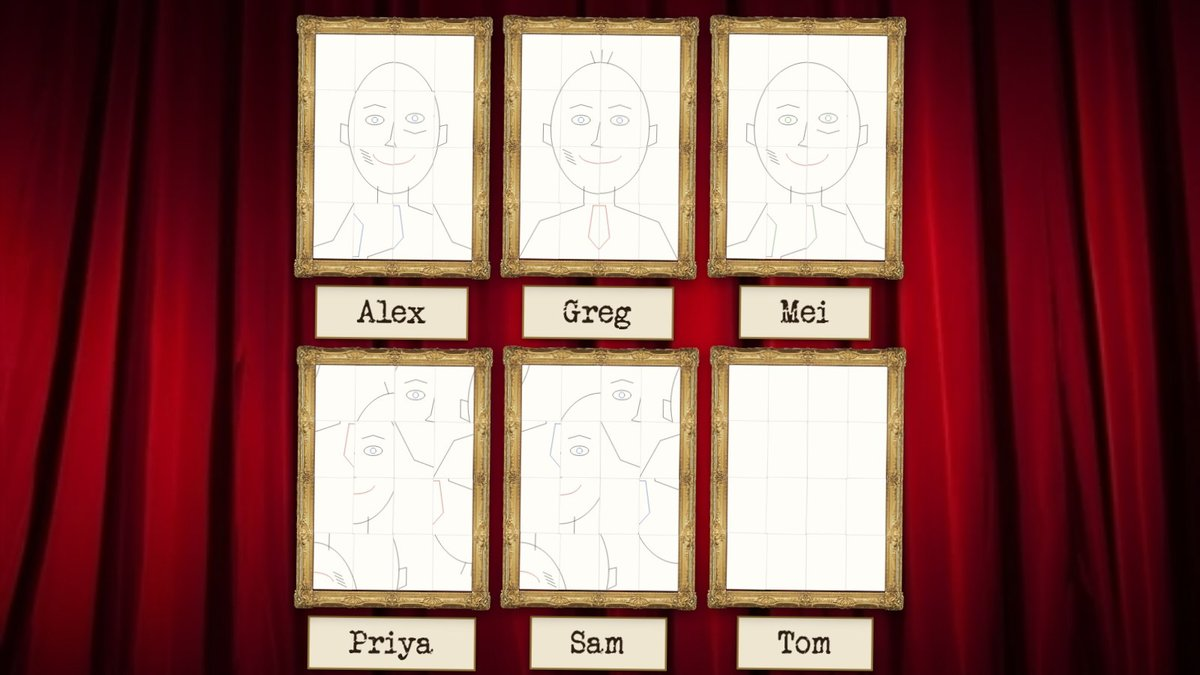
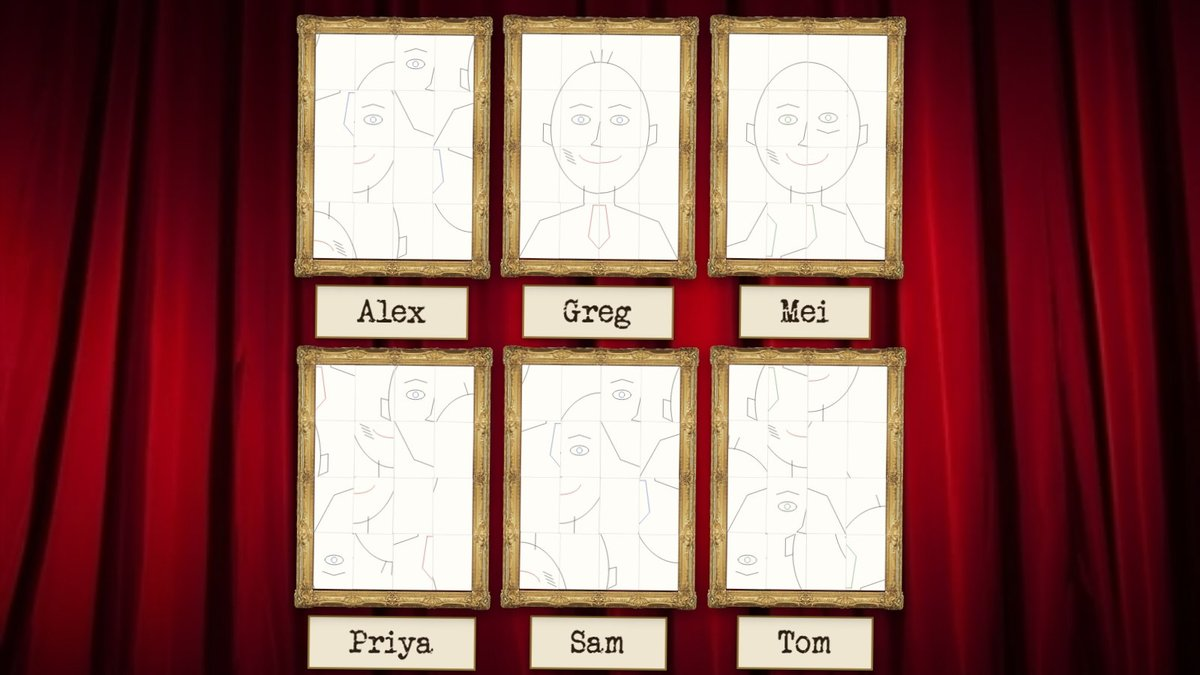
Flipchart shots: mostly scrambled portraits, nobody's blank
Claude-Session: https://claude.ai/code/session_01Poh8ytZmD6MRjW3F8tFofW

diff --git a/docs/guest-shots/shots.tsx b/docs/guest-shots/shots.tsx
@@ -197,9 +197,10 @@ function build() {
       const fc: Record<string, unknown> = {};
       if (live || over) Object.assign(fc, { startedAt: now - 5.5 * 60_000, endsAt: now + 14.5 * 60_000 });
       if (over) Object.assign(fc, { startedAt: now - 20 * 60_000, endsAt: now - 1000, closed: true });
-      const drawers = shot.includes("drawing") || shot.includes("send") || shot.includes("sent") ? ["sam"] : over ? Object.keys(people).filter((id) => id !== "tom") : [];
-      // The range a room sees: Greg followed the front page, Alex and Mei forgot to turn the upside-down pages, Sam and Priya drew in reading order.
-      const reading: Record<string, Reading> = { greg: "pattern", alex: "upright", mei: "upright", sam: "reading", priya: "reading" };
+      const drawers = shot.includes("drawing") || shot.includes("send") || shot.includes("sent") ? ["sam"] : over ? Object.keys(people) : [];
+      // Mostly in pieces, as at a real party: only Greg followed the front page and Mei forgot to turn the upside-down pages; Sam and Alex
+      // drew in reading order, Priya down the columns, and Tom started from 16.
+      const reading: Record<string, Reading> = { greg: "pattern", mei: "upright", alex: "reading", sam: "reading", priya: "columns", tom: "backwards" };
       fc.pages = Object.fromEntries(drawers.map((id) => [id, portraitPages(Object.keys(people).indexOf(id), reading[id])]));
       if (shot.includes("sent")) fc.submitted = { sam: true };
       if (over) fc.submitted = Object.fromEntries(drawers.map((id) => [id, true]));

diff --git a/docs/guest-shots/portraits.ts b/docs/guest-shots/portraits.ts
@@ -47,12 +47,14 @@ function face(variant: number): { c: number; pts: Pt[] }[] {
 /**
  * How the guest read the front page, as at a real party: "pattern" followed it and drew the four upside-down pages upside down (a
  * clean face); "upright" followed it but drew every page upright, so those four land upside down; "reading" took the pages to run
- * in reading order (1 to 4 across the top), so the face lands scrambled.
+ * in reading order (1 to 4 across the top), "columns" took them to run down each column, and "backwards" started at 16 in the top
+ * left: each of those lands scrambled in its own way.
  */
-export type Reading = "pattern" | "upright" | "reading";
+export type Reading = "pattern" | "upright" | "reading" | "columns" | "backwards";
 
 /** The page a guest drawing at this spot of their imagined chart is on. */
-const pageAt = (col: number, row: number, how: Reading) => how === "reading" ? row * 4 + col + 1 : PATTERN[row]![col]!;
+const pageAt = (col: number, row: number, how: Reading) =>
+  how === "reading" ? row * 4 + col + 1 : how === "columns" ? col * 4 + row + 1 : how === "backwards" ? 16 - (row * 4 + col) : PATTERN[row]![col]!;
 
 /** Where a point is on its page, as a pen on that page would draw it: clamped to the page, and turned for the pages printed upside down if the guest turned them. */
 const onPage = (x: number, y: number, col: number, row: number, how: Reading): number[] => {

diff --git a/docs/showcase/flipchart.html b/docs/showcase/flipchart.html
@@ -48,7 +48,7 @@
       <p>When the clock runs out, every portrait is hung in the show's pattern, some pages upside down. Whoever missed that on the front page gets a face in pieces.</p>
     </header>
     <figure class="tv">
-      <div class="frame"><img src="img/tv-flip-everyone.jpg" width="1200" height="675" alt="Everyone&#x27;s Flipchart portraits on the TV in gold frames: Greg&#x27;s a clean face, the others scrambled or with pages upside down, Tom&#x27;s blank."></div>
+      <div class="frame"><img src="img/tv-flip-everyone.jpg" width="1200" height="675" alt="Everyone&#x27;s Flipchart portraits on the TV in gold frames: Greg&#x27;s a clean face, Mei&#x27;s slightly off, and Alex&#x27;s, Priya&#x27;s, Sam&#x27;s and Tom&#x27;s in pieces."></div>
       <figcaption class="caption">Only Greg followed the pattern</figcaption>
     </figure>
   </section>

diff --git a/docs/screens/README.md b/docs/screens/README.md
@@ -30,7 +30,7 @@ Guest phone (`/play`, 390px wide), redrawn on 2026-10-18 in the host remote's la
 | `flipchart-guest-sent.jpg` | Sent: the front page closed, "✓ Submitted" and the locked line (2026-10-21) |
 | `flipchart-main-clock.jpg` | The big screen while they draw: the show's clock as the one focus, the tally beside it (2026-10-21) |
 | `flipchart-main-portrait.jpg` | Sam's finished portrait in the gold frame, pages in the show's pattern; he drew as if the pages ran in reading order, so his face lands scrambled (re-shot 2026-10-21) |
-| `flipchart-main-everyone.jpg` | Everyone's portraits at once, the range a room sees: Greg followed the front page (a clean face), Alex and Mei forgot to turn the upside-down pages, Sam and Priya drew in reading order; Tom's is blank and still shown (re-shot 2026-10-21) |
+| `flipchart-main-everyone.jpg` | Everyone's portraits at once, mostly in pieces as at a real party: only Greg followed the front page (a clean face), Mei forgot to turn the upside-down pages, Alex and Sam drew in reading order, Priya down the columns and Tom starting from 16 (re-shot 2026-10-21) |
 | `flipchart-host-start.jpg` | Host task page before the start: the clock at its limit and gold "Your time starts now" (2026-10-21) |
 | `flipchart-host-live.jpg` | Host task page while it runs: the clock, "+5 minutes", "End now: send everyone's" (2026-10-21) |
 | `flipchart-host-edit.jpg` | The task's ✎ page: what they draw and the time limit (10, 15, 20 or 30 minutes) (2026-10-21) |
